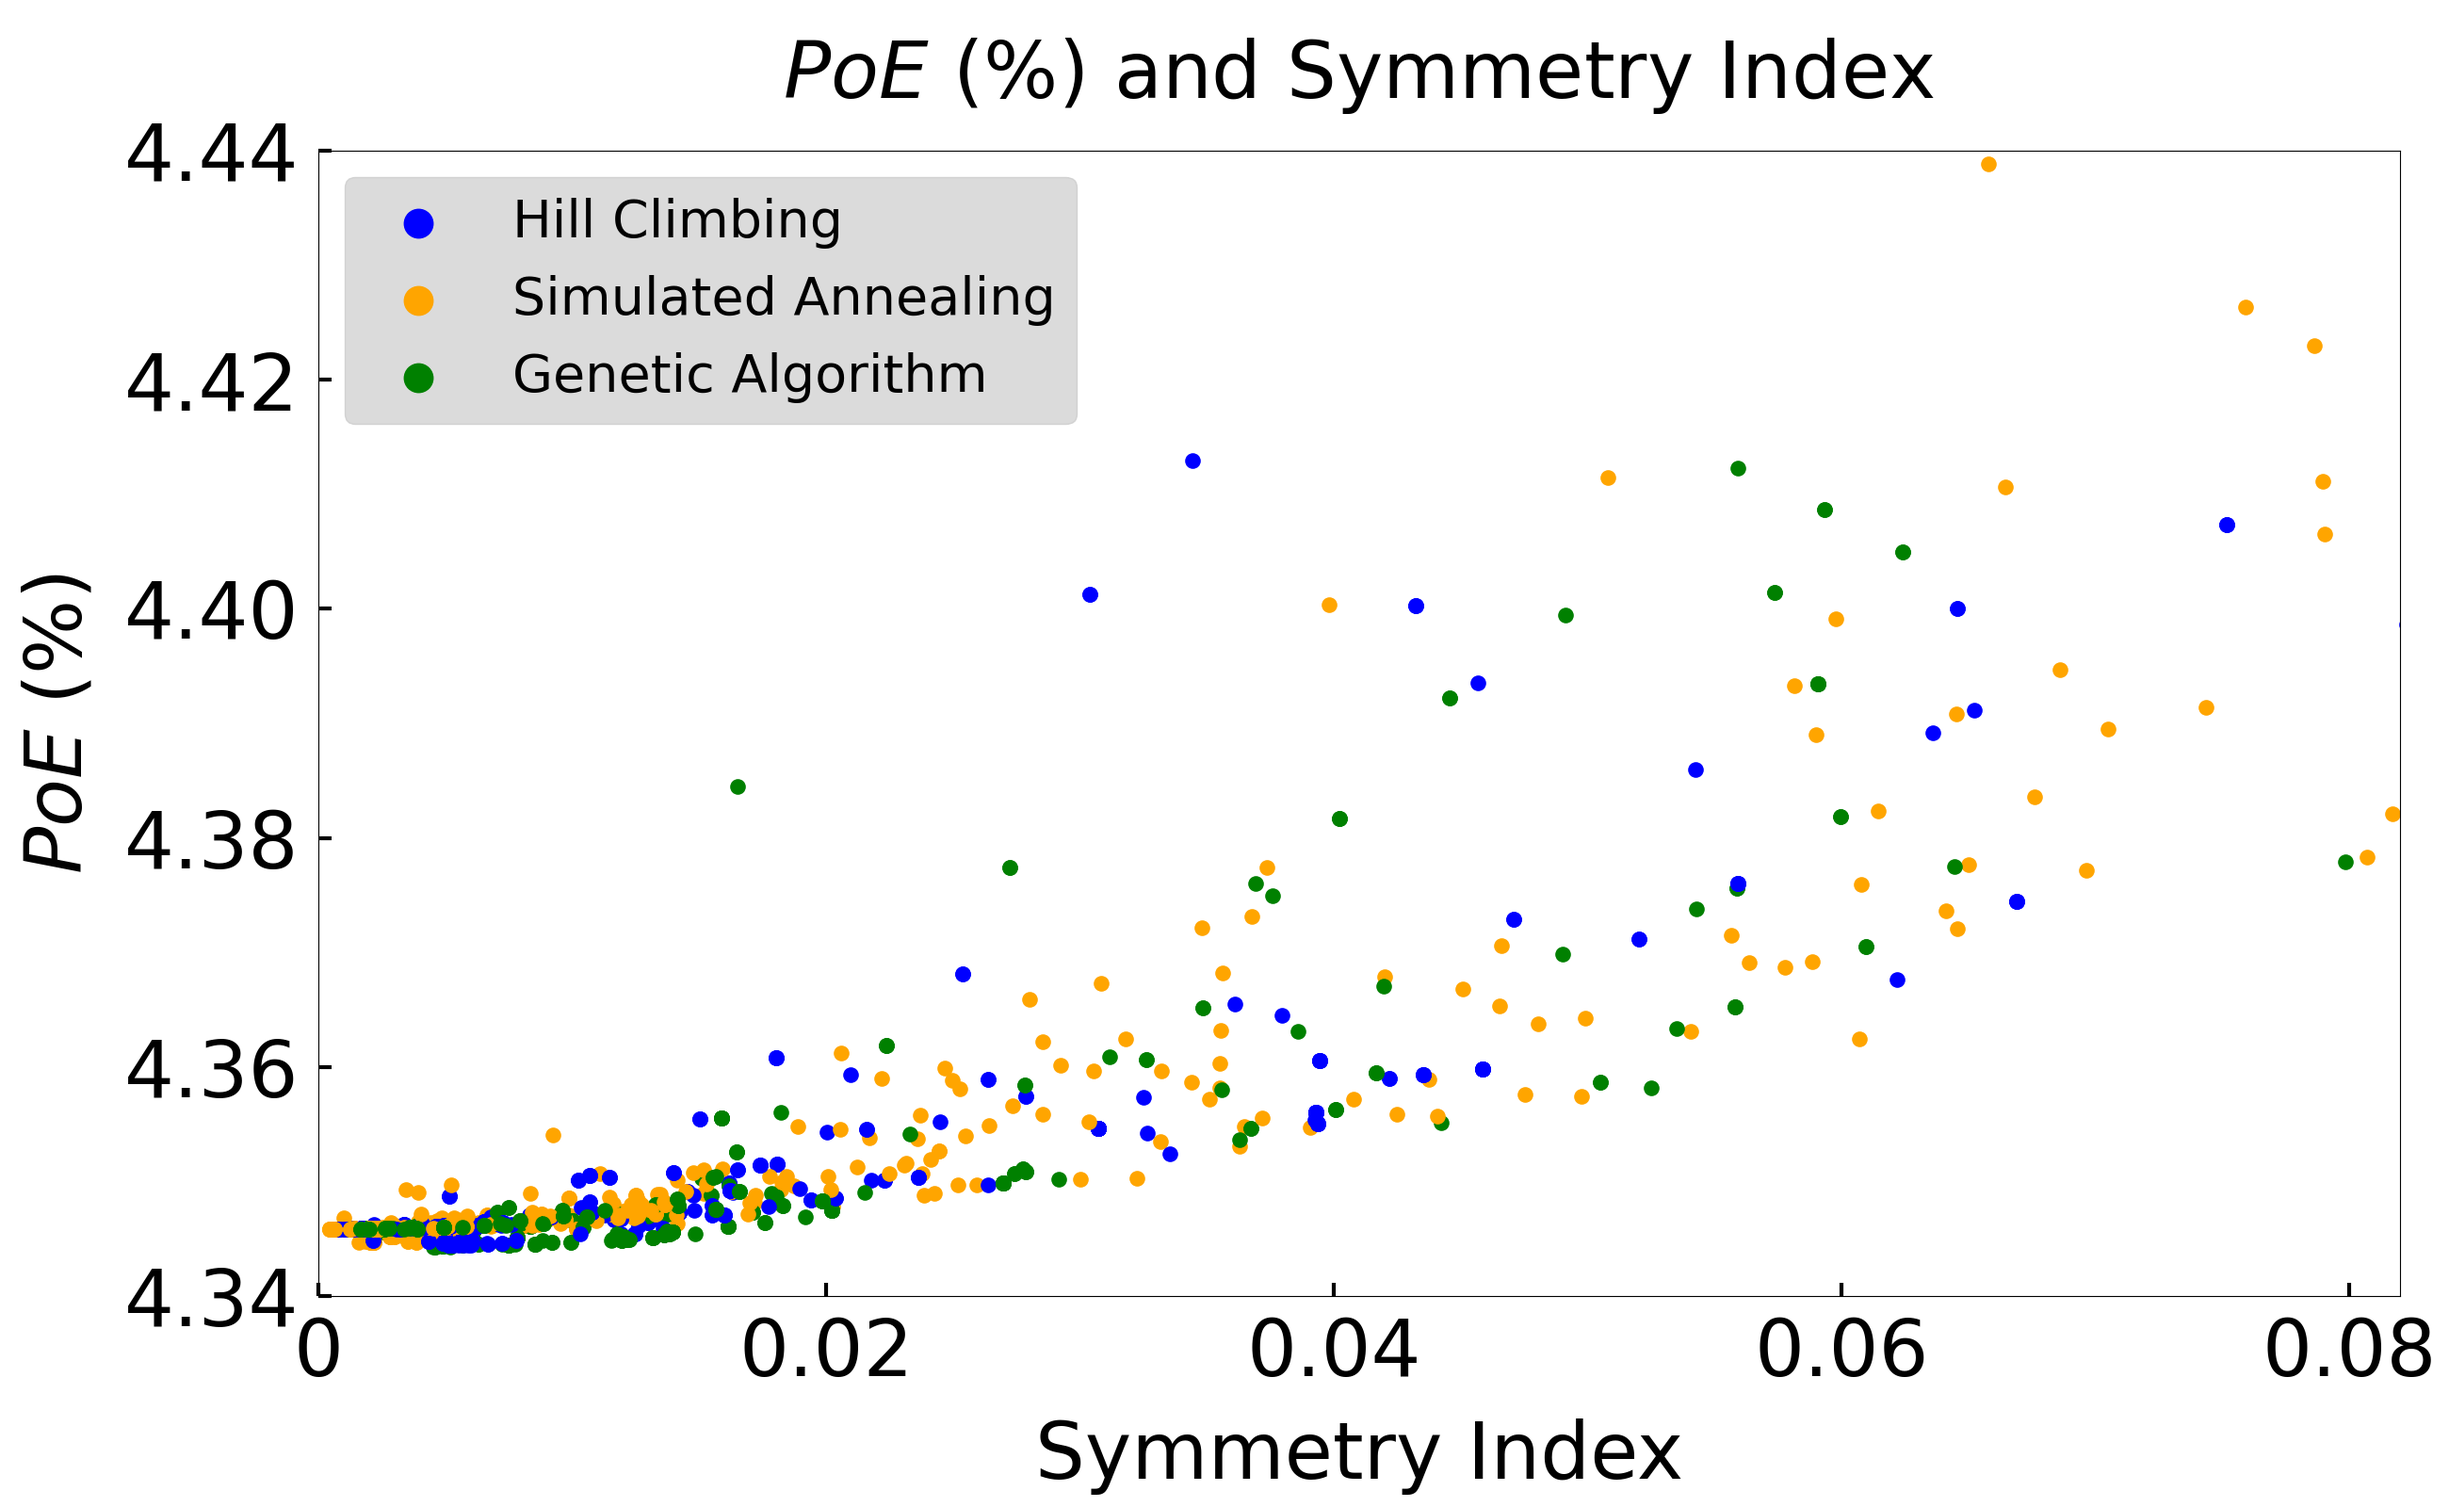
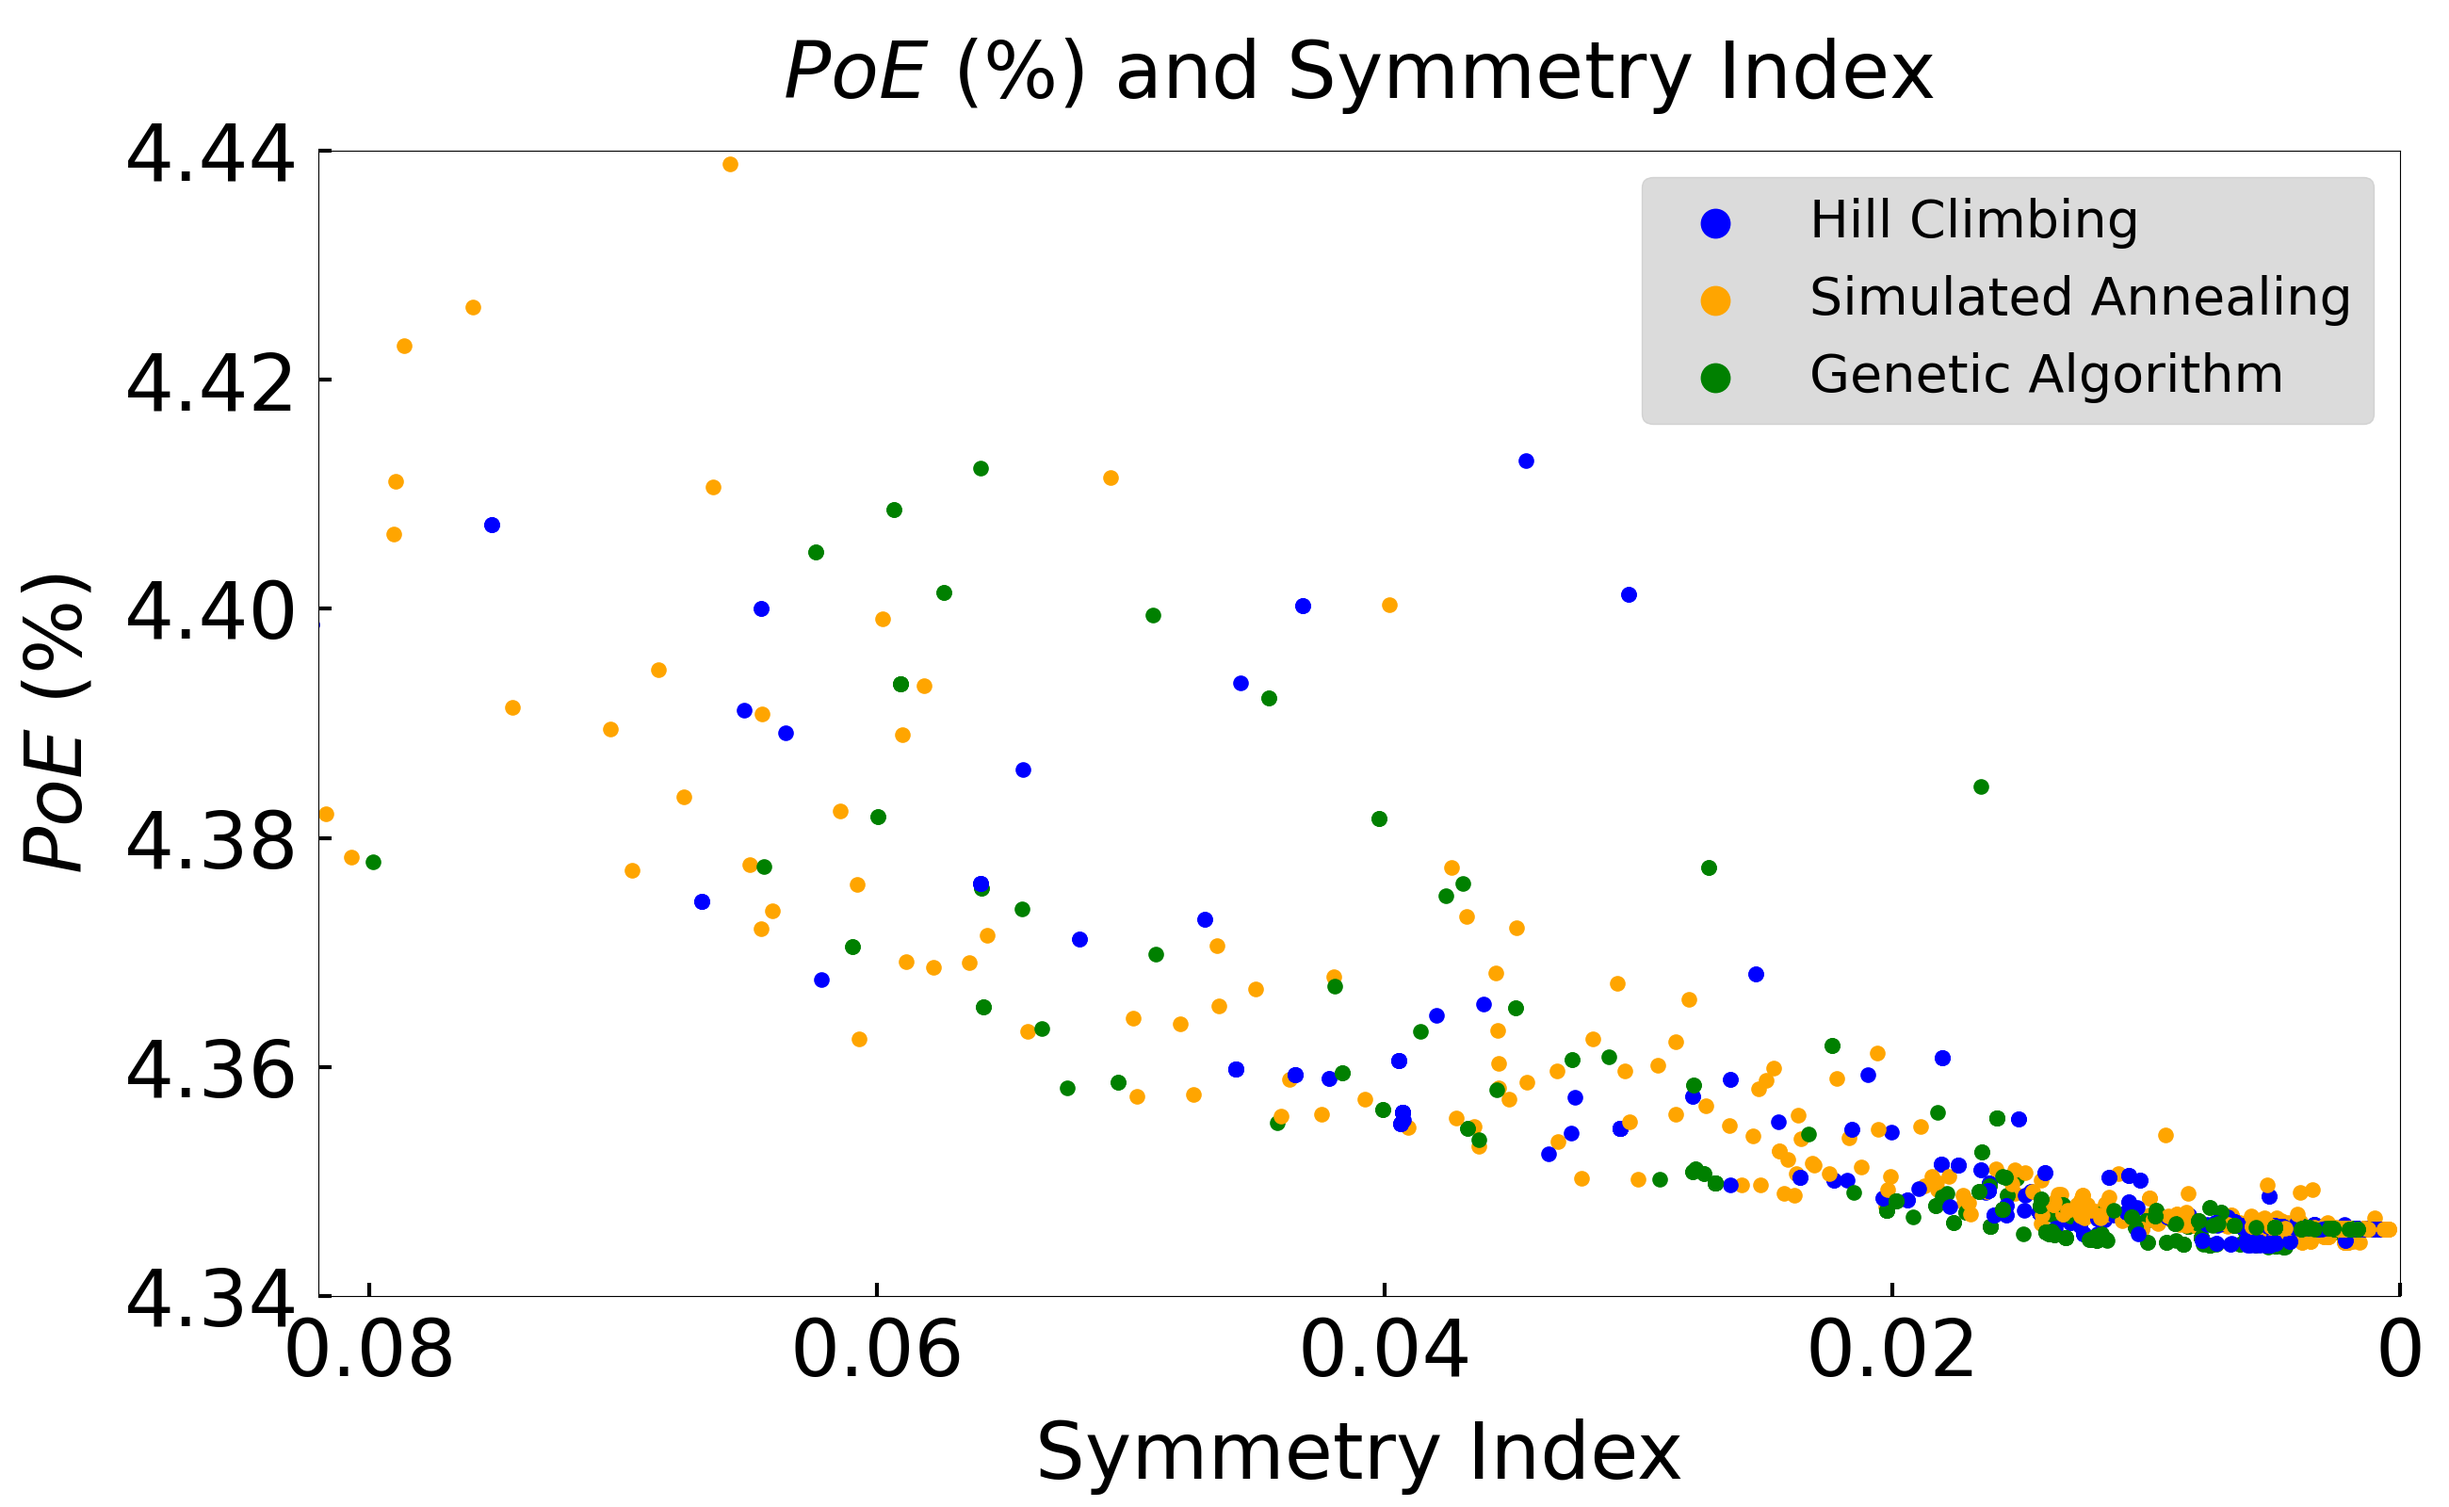
update plots

diff --git a/plot.py b/plot.py
@@ -510,6 +510,7 @@ class Plot:
         xticks = [0, 0.2, 0.4, 0.6, 0.8]
         ax.set_xticks(xticks)
         ax.set_xticklabels([str(x) for x in xticks])
+        ax.invert_xaxis()
         ax.set_ylim([4, 18])
         ax.set_title('$PoE$ (%) and Symmetry Index', fontsize=60, pad=40)
         ax.tick_params(axis='x', direction='in', length=10, width=3, pad=15)
@@ -547,6 +548,7 @@ class Plot:
         xticks = [0, 0.02, 0.04, 0.06, 0.08]
         ax.set_xticks(xticks)
         ax.set_xticklabels([str(x) for x in xticks])
+        ax.invert_xaxis()
         ax.tick_params(axis='x', direction='in', length=10, width=3, pad=15)
         ax.tick_params(axis='y', direction='in', length=10, width=3, pad=15)
         ax.set_title('$PoE$ (%) and Symmetry Index', fontsize=60, pad=40)
@@ -636,16 +638,16 @@ def conjecture():
 def symmetry():
     logs = ['result/5.22.2023/symmetry_theta46', 'result/5.22.2023/symmetry_theta66', 'result/5.22.2023/symmetry_thetas']
     data = Logger.read_log(logs)
-    filename = 'result/5.22.2023/symmetry_vary{}.png'
+    # filename = 'result/5.22.2023/symmetry_vary{}.png'
     # Plot.symmetry_varyseed(data, filename.format('seed'))
-    Plot.symmetry_varymethod(data, filename.format('method'))
+    # Plot.symmetry_varymethod(data, filename.format('method'))
     # Plot.symmetry_varymethod_poe(data, filename.format('method_poe'))
-    Plot.symmetry_varytheta(data, filename.format('theta'))
+    # Plot.symmetry_varytheta(data, filename.format('theta'))
 
-    # filename = 'result/5.22.2023/poe_symmetry.png'
-    # Plot.symmetry_poe_varymethod(data, filename)
-    # filename = 'result/5.22.2023/poe_symmetry_zoomin.png'
-    # Plot.symmetry_poe_varymethod_zoomin(data, filename)
+    filename = 'result/5.22.2023/poe_symmetry.png'
+    Plot.symmetry_poe_varymethod(data, filename)
+    filename = 'result/5.22.2023/poe_symmetry_zoomin.png'
+    Plot.symmetry_poe_varymethod_zoomin(data, filename)
 
 
 
